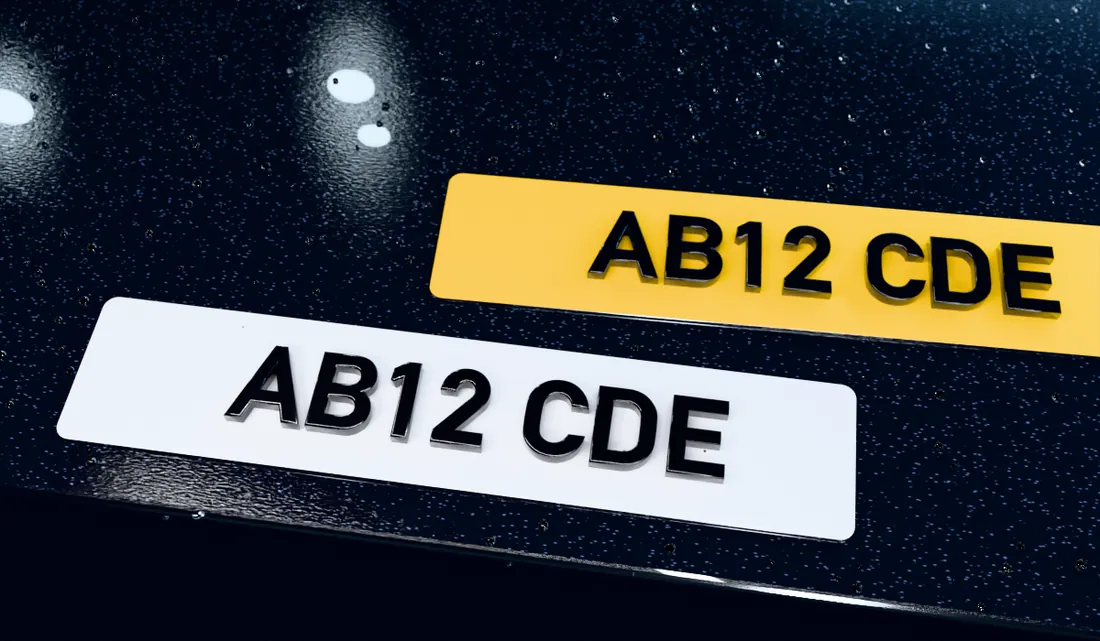
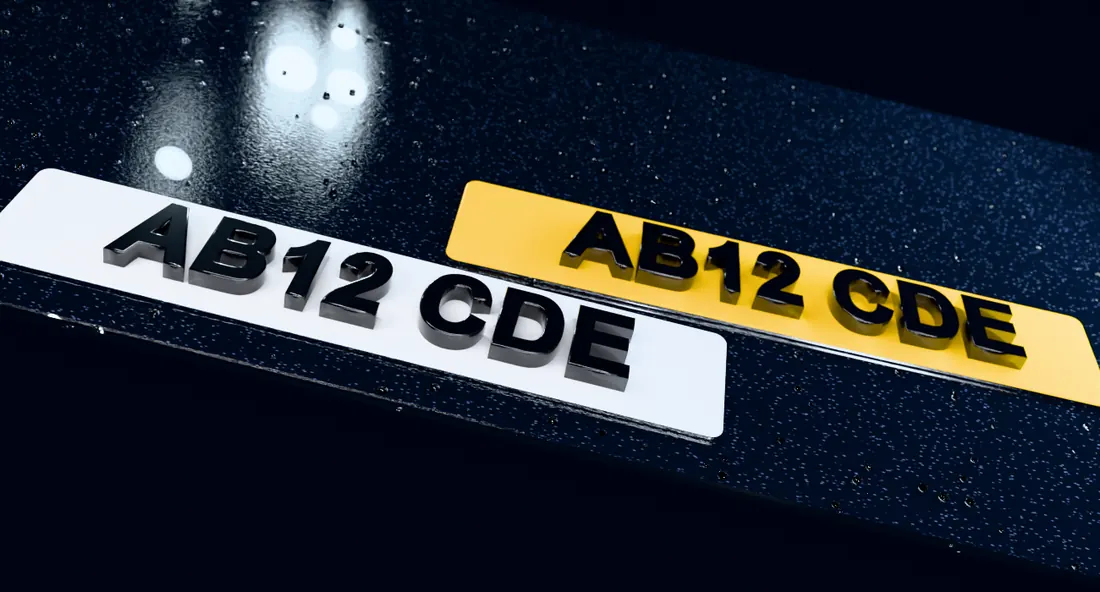
3D page Guides + Reviews: shorter desktop layout, standing 3D plate art
- desktop section ~110px shorter (736px at 1440x900, 724px at 1366x768, was
  827): tighter cards, carousels and ring, slimmer divider, art reserve cut
- new Blender render (scripts/render-plates-pair.py): close, tilted white and
  yellow plates with thick glossy 3D characters; 107KB desktop / 58KB phone
- plates now stand in front of the neon line and the line is dimmed on
  desktop (no filters under 900px); chevron glow softened
- phones/tablets: art zoomed and feathered with a wider oval

diff --git a/components/product3d/GuidesReviews/GuidesReviews.module.css b/components/product3d/GuidesReviews/GuidesReviews.module.css
@@ -171,8 +171,8 @@
   height: 190px;
   margin: 12px 0 0;
   pointer-events: none;
-  -webkit-mask-image: radial-gradient(ellipse 50% 50% at 50% 50%, #000 52%, transparent 98%);
-  mask-image: radial-gradient(ellipse 50% 50% at 50% 50%, #000 52%, transparent 98%);
+  -webkit-mask-image: radial-gradient(ellipse 62% 52% at 54% 50%, #000 58%, transparent 99%);
+  mask-image: radial-gradient(ellipse 62% 52% at 54% 50%, #000 58%, transparent 99%);
 }
 
 .art picture,
@@ -187,6 +187,9 @@
 .art img {
   object-fit: cover;
   object-position: 40% 60%;
+  /* phones and tablets: crop in on the plates (the render has a lot of bumper around them) */
+  transform: scale(1.14);
+  transform-origin: 46% 58%;
 }
 
 /* ——— Reviews panel ——— */
@@ -775,6 +778,8 @@
 
   .foot {
     grid-column: 1 / -1;
+    /* the neon line sits further back, behind the plates and a little dimmer */
+    filter: brightness(0.74) saturate(0.8);
   }
 
   /* panels become transparent: the root draws the backdrop and the chevron */
@@ -785,7 +790,7 @@
 
   .guides {
     overflow: visible; /* the plates run down into the divider; the root clips */
-    padding-bottom: calc(var(--sec-bottom) + var(--art-h) * 0.92 - var(--neon-edge-h) * 0.4);
+    padding-bottom: calc(var(--sec-bottom) + var(--art-h) * 0.9 - var(--neon-edge-h) * 0.4);
     background:
       radial-gradient(34% 56% at 100% 44%, rgba(120, 185, 255, 0.3), transparent 70%),
       radial-gradient(40% 30% at 0% 62%, rgba(150, 205, 255, 0.2), transparent 72%);
@@ -852,17 +857,18 @@
     height: calc(var(--art-h) + var(--neon-edge-h));
     margin: 0;
     -webkit-mask-image:
-      linear-gradient(180deg, transparent 0%, #000 14%, #000 100%),
+      linear-gradient(180deg, transparent 0%, #000 6%, #000 100%),
       linear-gradient(90deg, #000 0%, #000 72%, transparent 100%);
     -webkit-mask-composite: source-in;
     mask-image:
-      linear-gradient(180deg, transparent 0%, #000 14%, #000 100%),
+      linear-gradient(180deg, transparent 0%, #000 6%, #000 100%),
       linear-gradient(90deg, #000 0%, #000 72%, transparent 100%);
     mask-composite: intersect;
   }
 
   .art img {
     object-position: 0% 70%;
+    transform: none;
   }
 
   .reviewsInner {
@@ -954,7 +960,7 @@
   }
 
   .shapeGlow {
-    filter: drop-shadow(0 0 16px rgba(70, 150, 255, 0.5));
+    filter: drop-shadow(0 0 12px rgba(70, 150, 255, 0.3));
   }
 
   .poly {
@@ -991,6 +997,97 @@
   }
 }
 
+/* ——— Desktop, compact: the whole unit should read in one view ———
+   Same type scale as everywhere; only padding, gaps and chrome tighten. */
+@media (min-width: 1024px) {
+  .root {
+    --ring: clamp(64px, 4.2vw, 88px);
+    --art-h: clamp(128px, 9.6vw, 196px);
+  }
+
+  /* the plates stand in front of the blue divider, so the line sits behind them */
+  .guides {
+    z-index: 4;
+  }
+
+  .head,
+  .reviews .head {
+    margin-bottom: 12px;
+  }
+
+  .guideList {
+    gap: 8px;
+  }
+
+  .gcard {
+    padding: clamp(10px, 0.8vw, 14px) clamp(12px, 1vw, 16px);
+  }
+
+  .gtext {
+    margin-top: 2px;
+    line-height: 1.3;
+  }
+
+  .gtitle {
+    line-height: 1.2;
+  }
+
+  .rcards {
+    gap: 12px;
+  }
+
+  .rcard {
+    gap: 10px;
+    padding: clamp(14px, 1.2vw, 22px);
+  }
+
+  .rtop {
+    gap: 8px;
+  }
+
+  .rsub {
+    margin-top: 4px;
+  }
+
+  .ringWrap {
+    gap: 4px;
+  }
+
+  .ringCap {
+    line-height: 1.2;
+  }
+
+  .tiles {
+    gap: 6px;
+  }
+
+  .tile {
+    gap: 5px;
+    padding: 10px 6px;
+  }
+
+  .carousel {
+    gap: 0;
+    padding-top: 8px;
+  }
+
+  .row {
+    padding-block: 3px;
+  }
+
+  .review {
+    padding: 8px 10px;
+  }
+
+  .quote {
+    margin: 2px 0 4px;
+  }
+
+  .dot {
+    height: 26px;
+  }
+}
+
 /* 1024–1279: the left column is taller than it is wide, so the plates grow */
 @media (min-width: 1024px) and (max-width: 1279px) {
   .root {
@@ -1004,17 +1101,17 @@
   /* only the white plate fits this narrow column: the yellow fades out early */
   .art {
     -webkit-mask-image:
-      linear-gradient(180deg, transparent 0%, #000 14%, #000 100%),
+      linear-gradient(180deg, transparent 0%, #000 6%, #000 100%),
       linear-gradient(90deg, #000 0%, #000 52%, transparent 90%);
     mask-image:
-      linear-gradient(180deg, transparent 0%, #000 14%, #000 100%),
+      linear-gradient(180deg, transparent 0%, #000 6%, #000 100%),
       linear-gradient(90deg, #000 0%, #000 52%, transparent 90%);
   }
 }
 
 @media (min-width: 1280px) {
   .root {
-    --neon-edge-h: clamp(30px, 2.6vw, 38px);
+    --neon-edge-h: clamp(26px, 2.2vw, 32px);
   }
 
   /* the bottom of the taller render sits under the divider */

diff --git a/components/product3d/GuidesReviews/GuidesReviews3D.tsx b/components/product3d/GuidesReviews/GuidesReviews3D.tsx
@@ -165,7 +165,7 @@ export default function GuidesReviews3D() {
               src="/3d/guides-reviews-plates-mobile.webp"
               alt=""
               width={1100}
-              height={642}
+              height={592}
               loading="lazy"
               decoding="async"
             />
